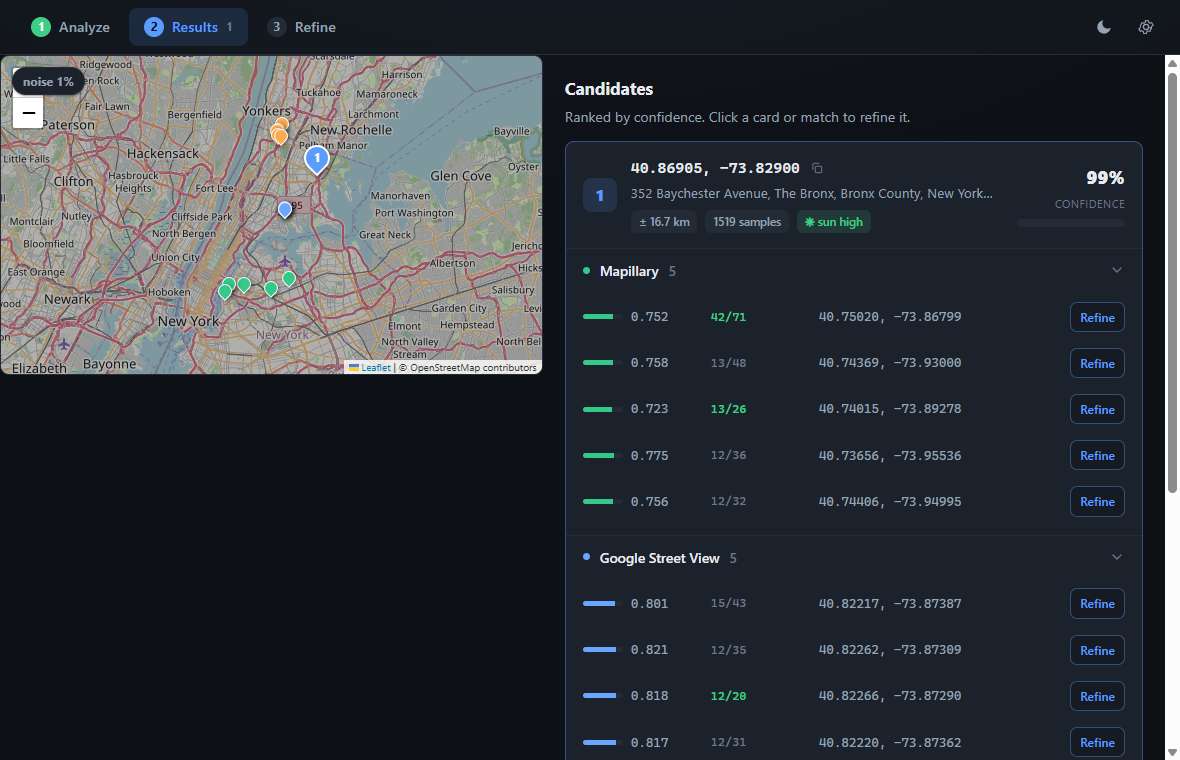
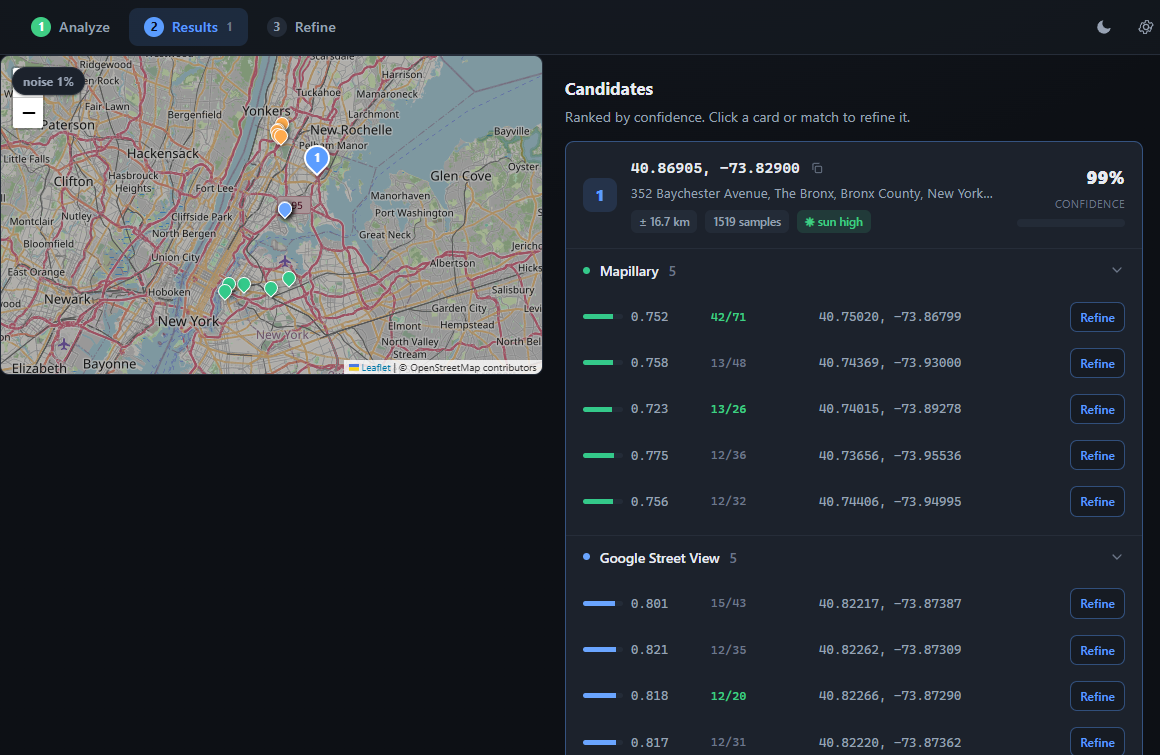
Clean up README prose and replace pipeline diagram with custom SVG
Removes em dashes, decorative emoji, and other AI-writing tells from the
README. Swaps the mermaid pipeline diagram for a hand-built light/dark SVG
pair that matches the app's own icon language, and updates the screenshot.

diff --git a/README.md b/README.md
@@ -4,7 +4,7 @@
 
 # Waypoint
 
-**Free, open-source image geolocation — figure out where a photo was taken.**
+**Free, open-source image geolocation. Figure out where a photo was taken.**
 
 PLONK coarse localization → street-level retrieval refinement → geometric verification.
 A self-contained desktop app. No paid APIs, no cloud, everything runs on your machine.
@@ -17,53 +17,48 @@ A self-contained desktop app. No paid APIs, no cloud, everything runs on your ma
 </div>
 
 <p align="center">
-  <img src="assets/screenshot.png" width="920" alt="Waypoint results view — candidate on an interactive map with ranked street-level matches" />
+  <img src="assets/screenshot.png" width="920" alt="Waypoint results view: a candidate on an interactive map with ranked street-level matches" />
 </p>
-
----
 
 ## What it is
 
 Waypoint takes a single outdoor photo and estimates **where on Earth it was taken**. It starts
 with a neural coarse guess, sanity-checks it against the sun, then confirms the exact spot by
-matching the photo against real street-level imagery — and shows every candidate on an
-interactive map with a confidence score you can drill into.
+matching the photo against real street-level imagery. Every candidate shows up on an interactive
+map with a confidence score you can drill into.
 
-It's built for OSINT research, verification/journalism, and geolocation CTFs. It's fully local:
-the only things that leave your machine are the imagery lookups the refinement stages make.
+It's built for OSINT research, verification and journalism, and geolocation CTFs. Everything runs
+locally; the only things that leave your machine are the imagery lookups the refinement stages make.
 
 ## How it works
 
-```mermaid
-flowchart LR
-    A[📷 Photo] --> B[PLONK<br/>coarse locate]
-    B --> C[☀ Sun / season<br/>plausibility]
-    C --> D[Retrieval refinement<br/>Mapillary · Google SV · Panoramax]
-    D --> E[Geometric verification<br/>DISK + LightGlue]
-    E --> F[🗺 Ranked candidates<br/>on the map]
-```
+<picture>
+  <source media="(prefers-color-scheme: dark)" srcset="assets/pipeline-dark.svg">
+  <source media="(prefers-color-scheme: light)" srcset="assets/pipeline-light.svg">
+  <img src="assets/pipeline-light.svg" alt="Pipeline: photo, PLONK coarse locate, sun and season plausibility, retrieval refinement, geometric verification, ranked candidates on the map">
+</picture>
 
-1. **Coarse localization** — [PLONK](https://github.com/nicolas-dufour/plonk) (a diffusion model) samples a spread of plausible locations and clusters them into weighted candidates.
-2. **Sun / season plausibility** — shadow direction and lighting are checked against the sun's position for the implied place, date and time, downranking implausible guesses.
-3. **Retrieval refinement** — each candidate is compared against nearby real photos from **Mapillary**, **Google Street View**, and **Panoramax**.
-4. **Geometric verification** — promising matches are confirmed with local-feature matching (**DISK + LightGlue** via `kornia`); the inlier count tells you how solid a match really is.
-5. **Refine** — pick any candidate or match and run a tight, exhaustive search of a small radius around it.
+1. **Coarse localization.** [PLONK](https://github.com/nicolas-dufour/plonk), a diffusion model, samples a spread of plausible locations and clusters them into weighted candidates.
+2. **Sun / season plausibility.** Shadow direction and lighting get checked against the sun's position for the implied place, date, and time, downranking implausible guesses.
+3. **Retrieval refinement.** Each candidate is compared against nearby real photos from **Mapillary**, **Google Street View**, and **Panoramax**.
+4. **Geometric verification.** Promising matches are confirmed with local-feature matching (**DISK + LightGlue** via `kornia`). The inlier count tells you how solid a match really is.
+5. **Refine.** Pick any candidate or match and run a tight, exhaustive search of a small radius around it.
 
 ## Features
 
-- 🗺️ **Interactive map** (Leaflet + OpenStreetMap) with candidate and per-source match pins, auto-fit to the results.
-- 📊 **Confidence, uncertainty, and evidence** — cluster weight, sample spread, and the sun-plausibility verdict, all surfaced per candidate.
-- 🎯 **One-click refine** — send any result into a focused, exhaustively-verified re-search.
-- 🌓 **Light / dark theme**, three-tab workflow (Analyze → Results → Refine), no clutter.
-- 🔒 **No paid APIs.** Google Street View, Panoramax, and OpenStreetMap need no keys; Mapillary is optional and free.
-- 📦 **Zero manual setup** — the app downloads its own portable Python runtime on first launch. No system Python required.
+- **Interactive map** (Leaflet + OpenStreetMap) with candidate and per-source match pins, auto-fit to the results.
+- **Confidence, uncertainty, and evidence.** Cluster weight, sample spread, and the sun-plausibility verdict, all surfaced per candidate.
+- **One-click refine.** Send any result into a focused, exhaustively-verified re-search.
+- **Light and dark theme**, a three-tab workflow (Analyze, Results, Refine), no clutter.
+- **No paid APIs.** Google Street View, Panoramax, and OpenStreetMap need no keys; Mapillary is optional and free.
+- **Zero manual setup.** The app downloads its own portable Python runtime on first launch. No system Python required.
 
 ## Requirements
 
-- **Windows 10 / 11 (x64).** _(macOS/Linux aren't supported yet — first-run setup fetches a Windows Python build.)_
+- **Windows 10 / 11 (x64).** _(macOS/Linux aren't supported yet; first-run setup fetches a Windows Python build.)_
 - **[Node.js](https://nodejs.org/) 18+** and npm, to install and run from source.
-- **~6–8 GB free disk** (PyTorch + model weights) and an **internet connection** for first-run setup, imagery lookups, and model download.
-- **Optional: an NVIDIA GPU** (CUDA) — auto-detected for faster inference; otherwise it runs on CPU.
+- **~6–8 GB free disk** (PyTorch and model weights) and an **internet connection** for first-run setup, imagery lookups, and the model download.
+- **Optional: an NVIDIA GPU** (CUDA), auto-detected for faster inference. Otherwise it runs on CPU.
 
 ## Install & run
 
@@ -76,17 +71,17 @@ npm start
 
 ### First launch (automatic, one-time)
 
-On the very first run Waypoint installs a **portable Python environment** for itself — it downloads
+On the very first run, Waypoint installs a **portable Python environment** for itself. It downloads
 [`uv`](https://github.com/astral-sh/uv), a managed Python 3.11 interpreter, and the pipeline
-dependencies (PyTorch, etc.). This takes a few minutes and shows a progress bar. Everything lands
-in the app's own data folder; your system Python (if any) is never touched. You can wipe and redo
-this anytime from **Settings → Purge Python install**.
+dependencies (PyTorch and the rest). This takes a few minutes and shows a progress bar. Everything
+lands in the app's own data folder; your system Python, if you have one, is never touched. You can
+wipe and redo this anytime from **Settings → Purge Python install**.
 
 ### Optional: Mapillary token
 
 The Mapillary refinement stage needs a free API token. Open **Settings**, paste a token from
 [mapillary.com/dashboard/developers](https://www.mapillary.com/dashboard/developers), and save.
-Without it, that one stage is simply skipped — Google Street View, Panoramax, and OpenStreetMap
+Without it, that one stage is simply skipped. Google Street View, Panoramax, and OpenStreetMap
 work with no keys at all.
 
 ## Building a portable executable
@@ -111,14 +106,14 @@ Produces a standalone Windows portable `.exe` in `dist/` (via `electron-builder`
 
 ## Ethical use
 
-Waypoint is a research and verification tool. Please use it responsibly and lawfully — for OSINT
-research, journalism, imagery verification, and CTFs. **Don't use it to stalk, harass, or endanger
-anyone.** Estimates are probabilistic, not proof; always corroborate before acting on a result.
+Waypoint is a research and verification tool. Use it responsibly and lawfully: for OSINT research,
+journalism, imagery verification, and CTFs. **Don't use it to stalk, harass, or endanger anyone.**
+Estimates are probabilistic, not proof. Always corroborate before acting on a result.
 
 ## License
 
-[MIT](LICENSE) — free to use, modify, and distribute.
+[MIT](LICENSE). Free to use, modify, and distribute.
 
 <div align="center">
-<sub>Built on the shoulders of PLONK, Leaflet, OpenStreetMap, Mapillary, Panoramax, and kornia. ♥</sub>
+<sub>Built on the shoulders of PLONK, Leaflet, OpenStreetMap, Mapillary, Panoramax, and kornia.</sub>
 </div>